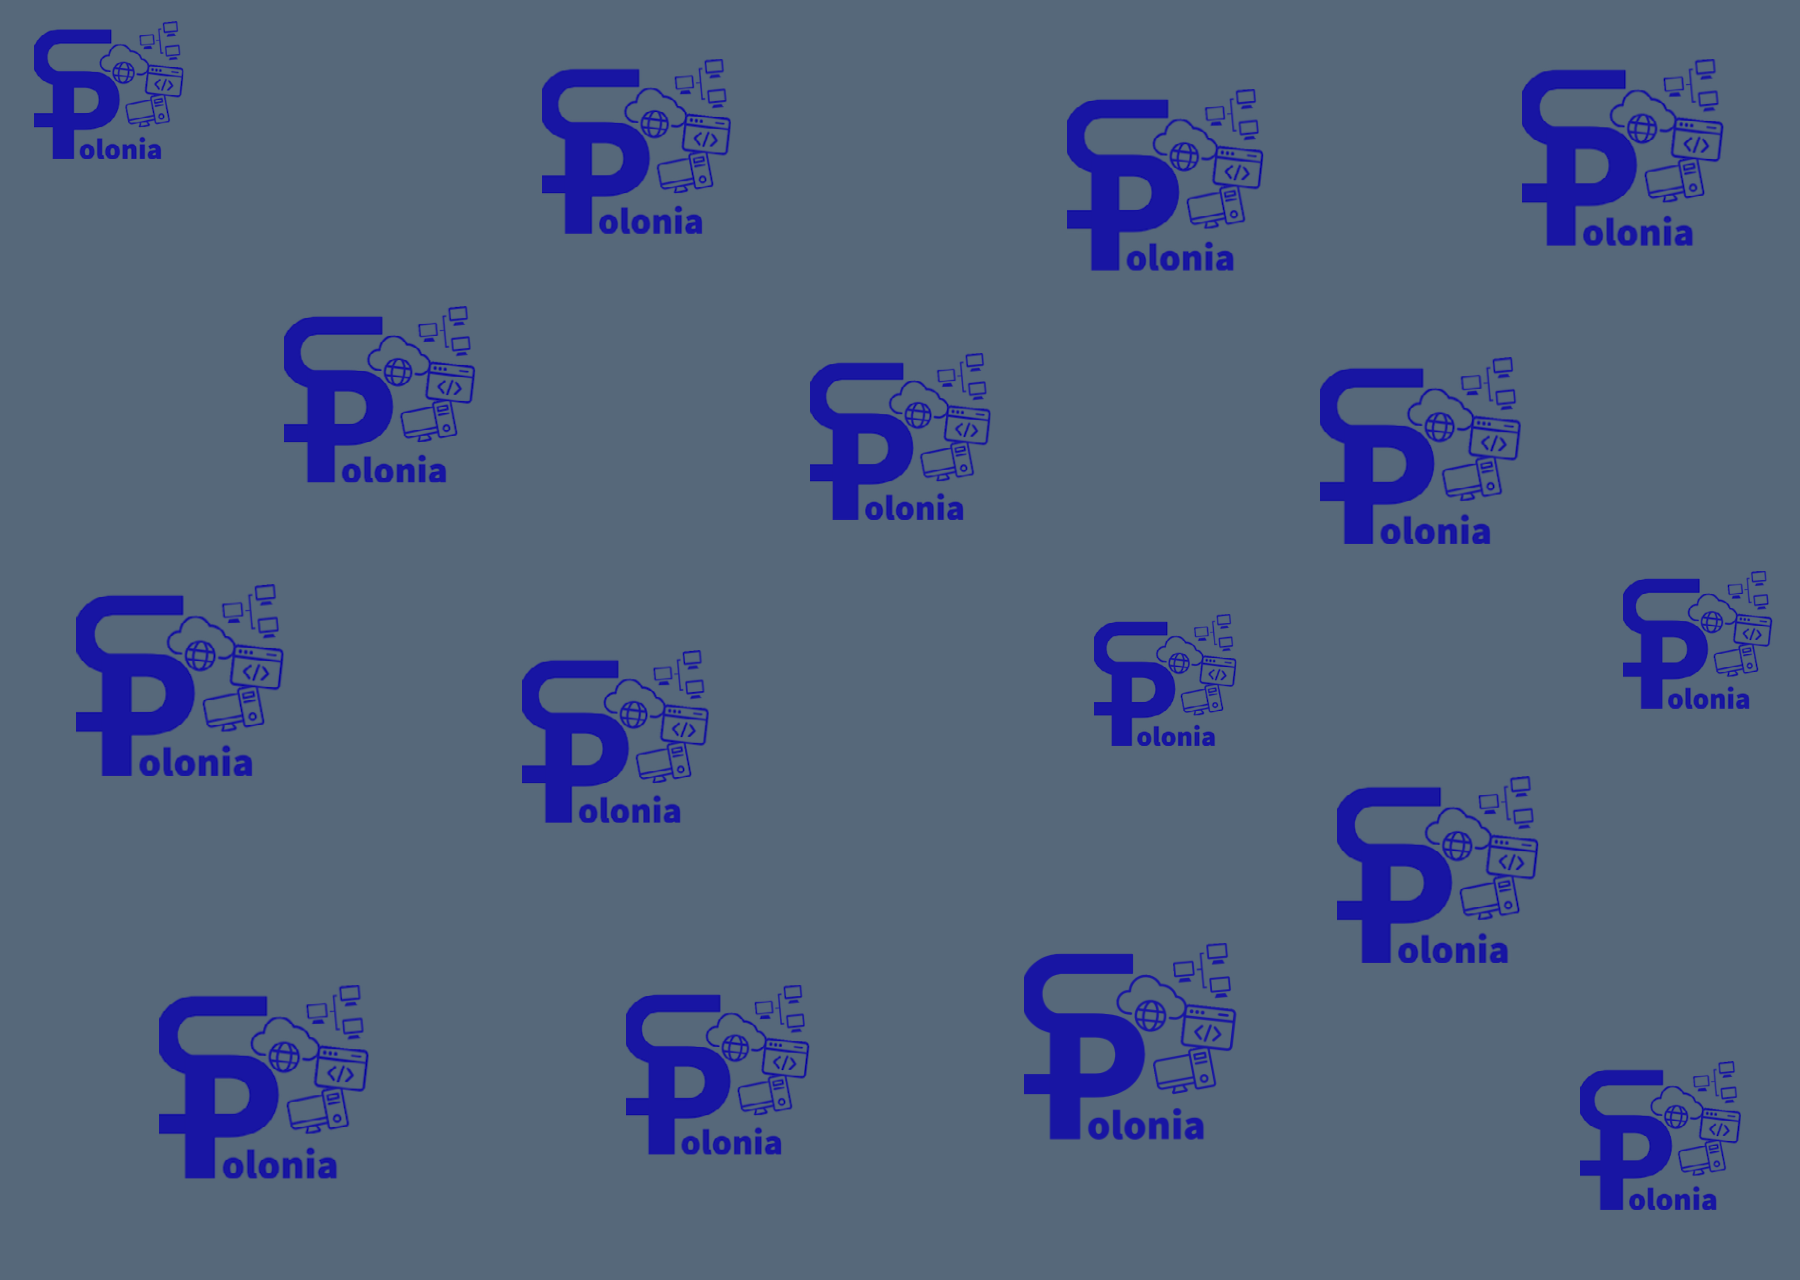
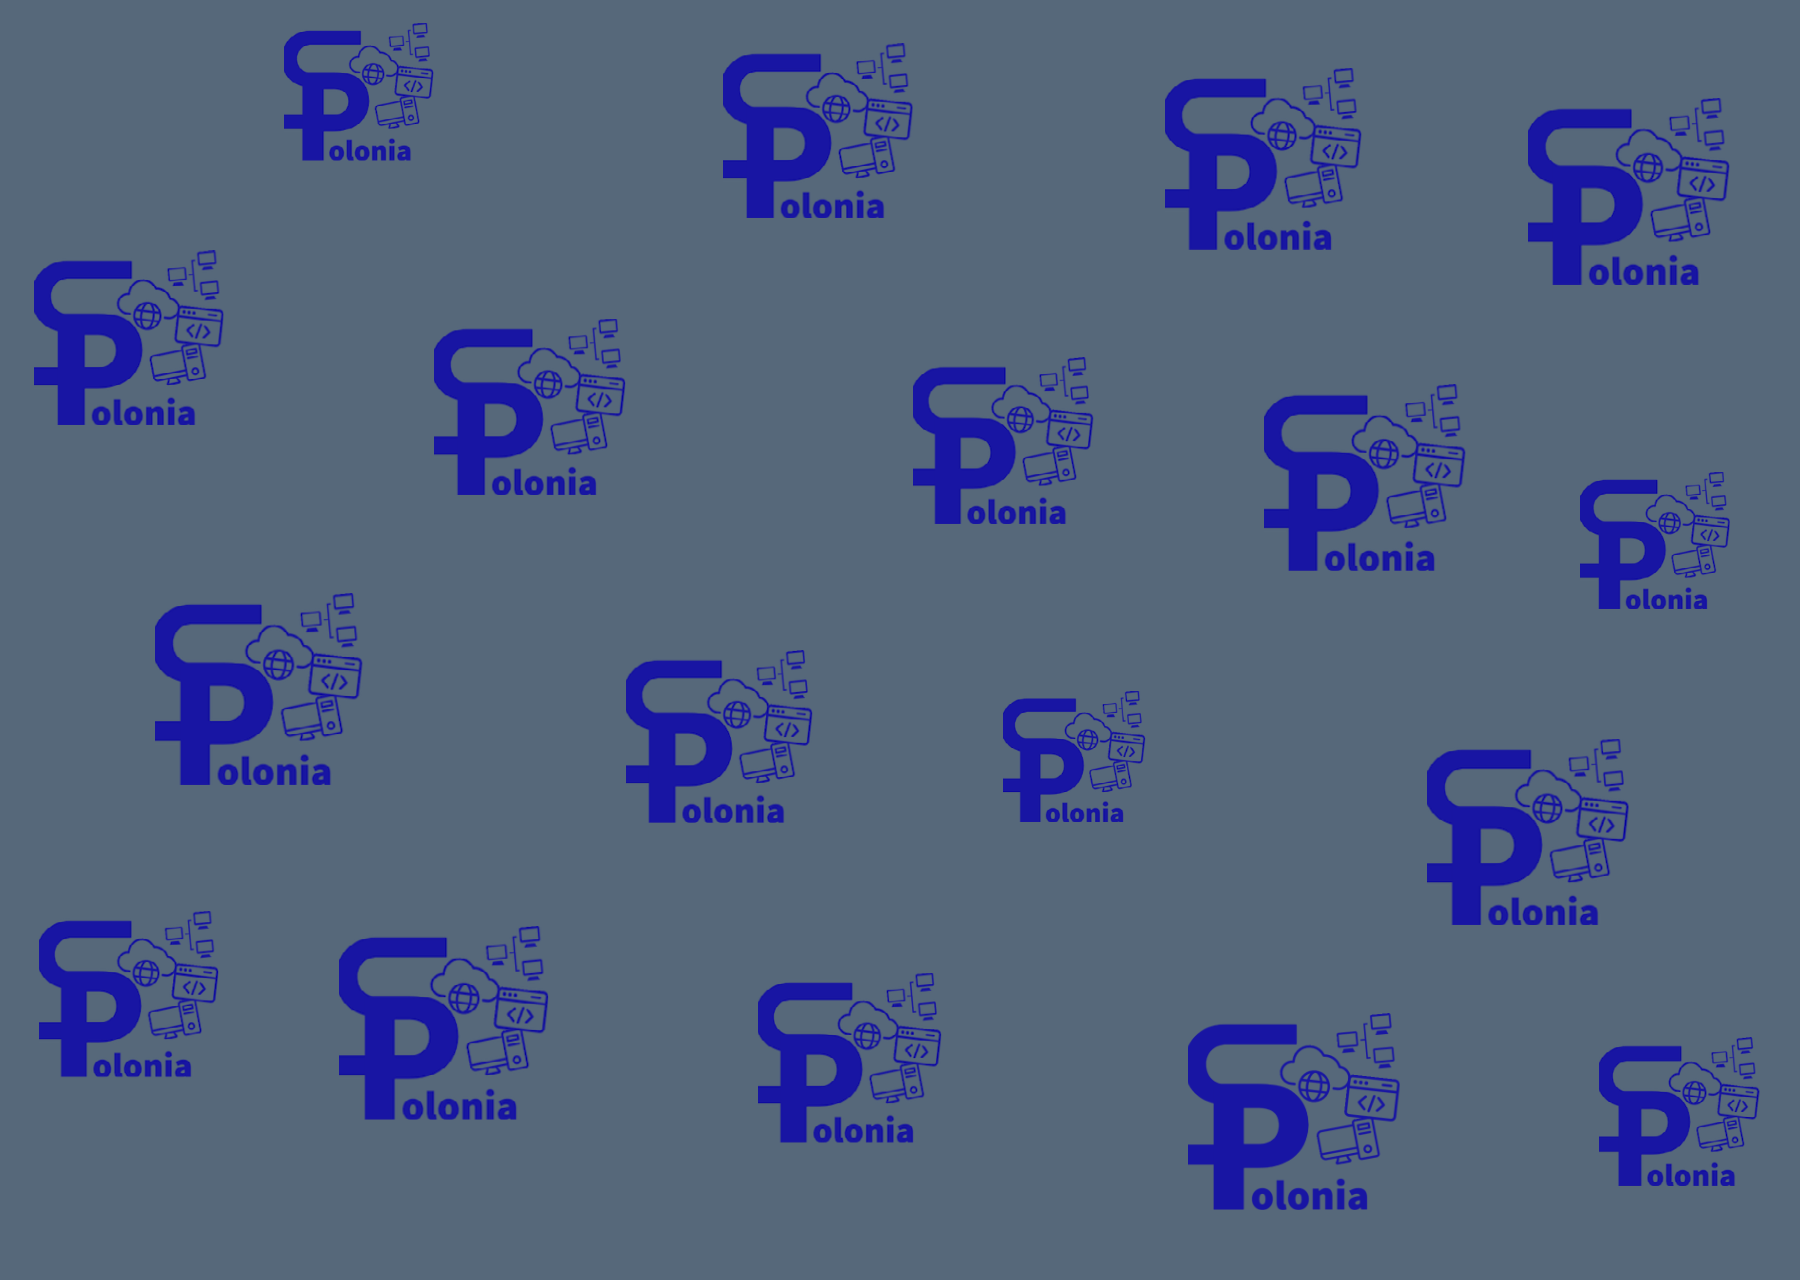
moviendo icono en el fondo

diff --git a/assets/css/main.css b/assets/css/main.css
@@ -109,7 +109,7 @@ letraTituloCard {
 }
 
 .img_inicio {
-	width: 80%;
+	width: 70%;
 	border-radius: 10px;
 	box-shadow: 3px 6px 10px rgba(205, 205, 205, 0.735);
 }
